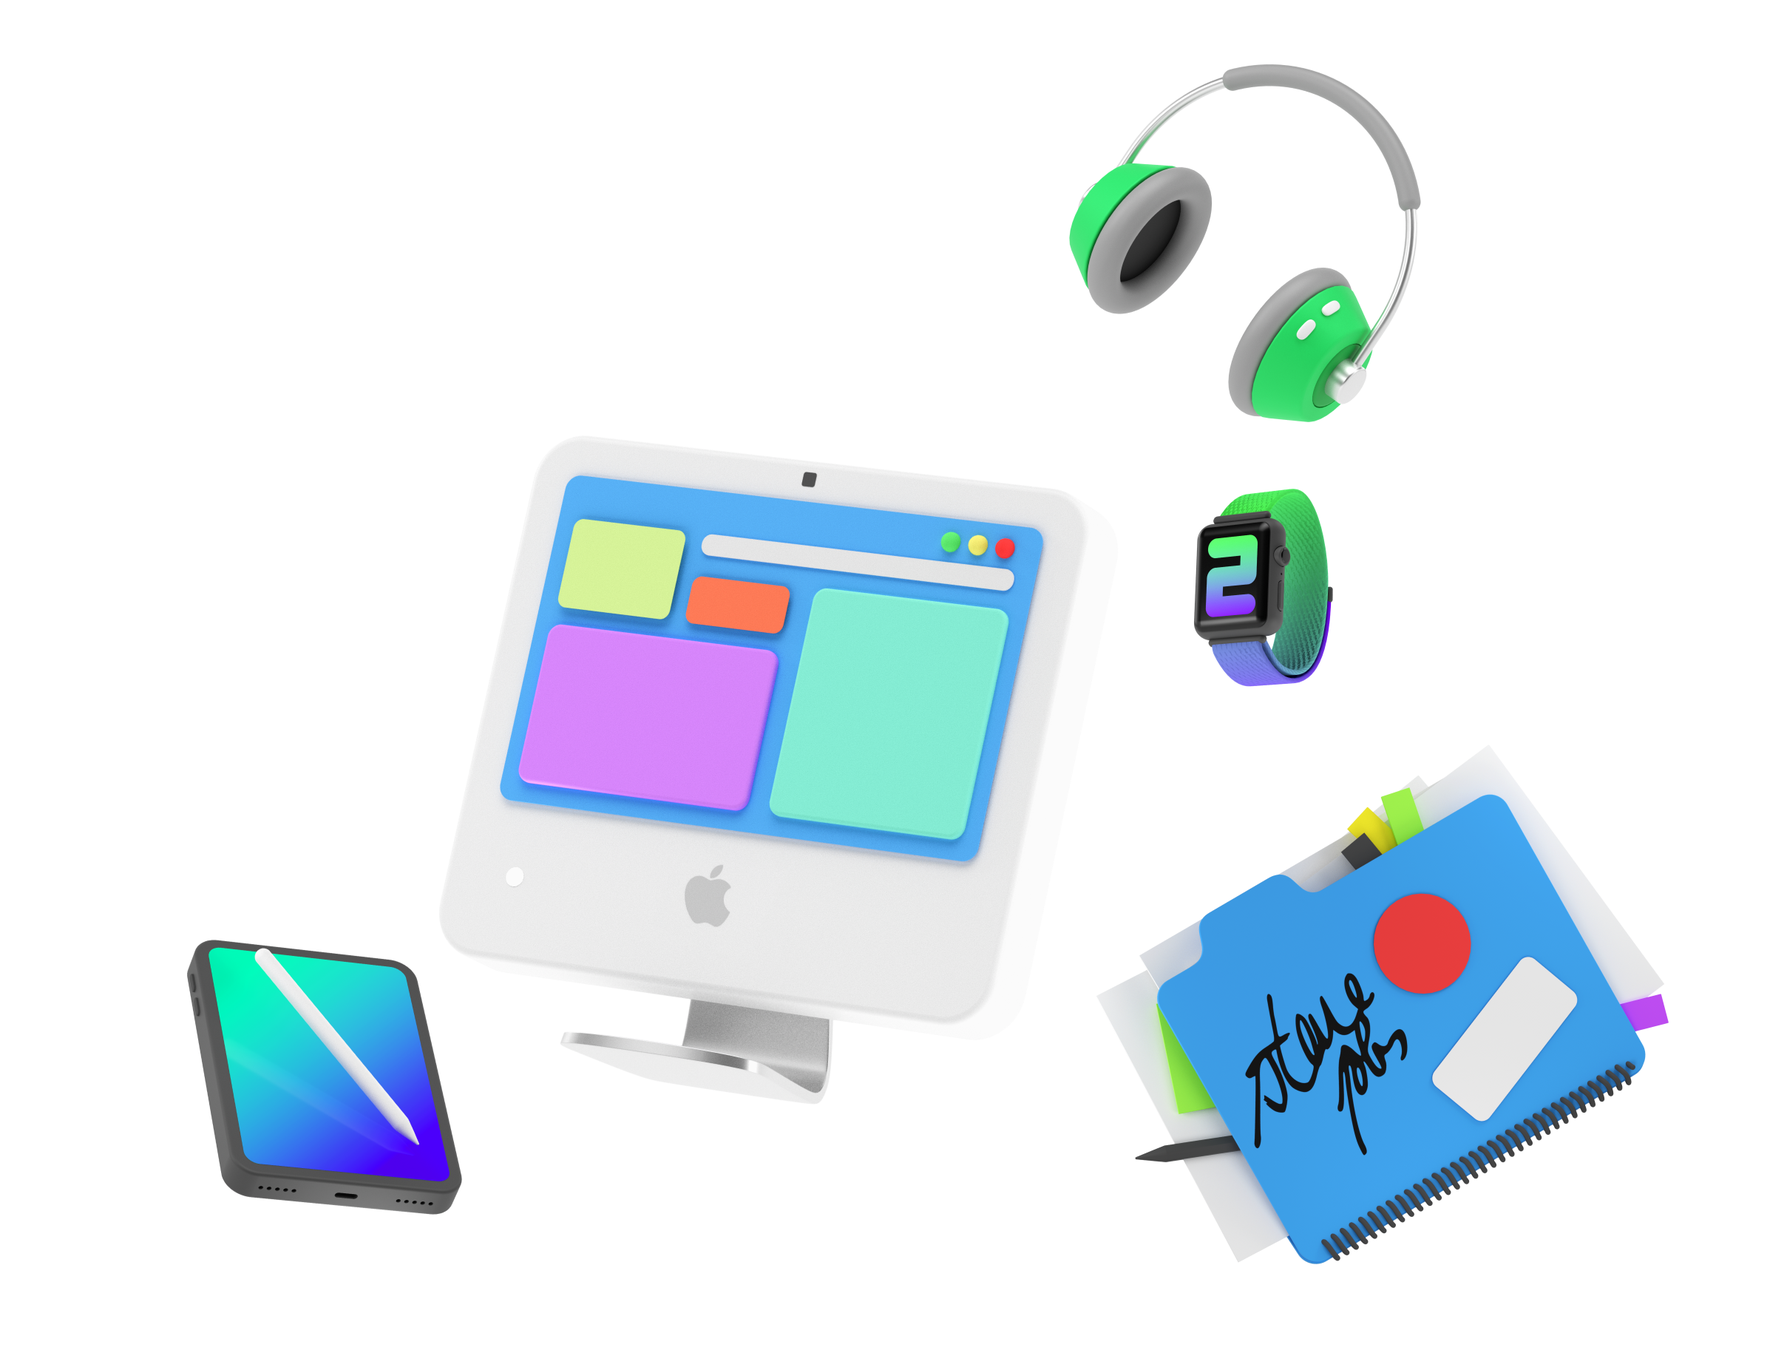
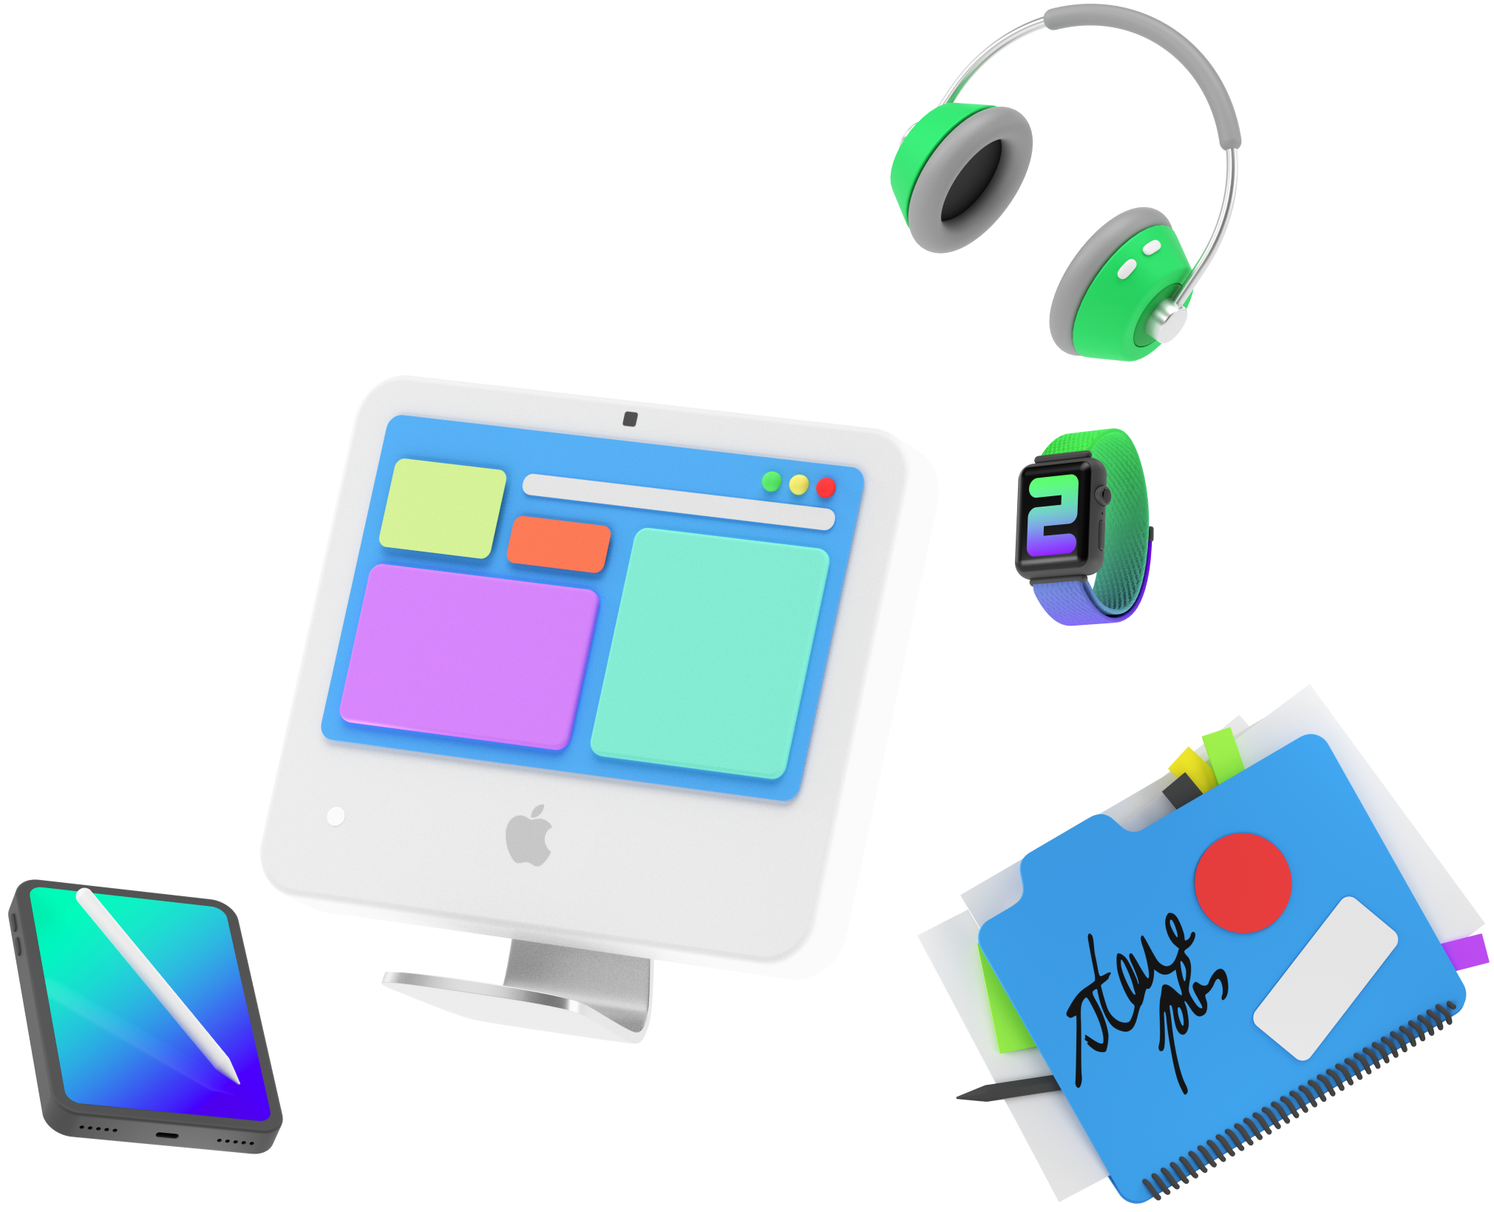
mini fix main screen

diff --git a/src/pages/MainPage.tsx b/src/pages/MainPage.tsx
@@ -2,18 +2,22 @@ import React from "react";
 import Header from "../components/Header";
 import MainScreen from "../components/MainScreen";
 import AboutCard from "../components/AboutCard";
+import InfoCard from "../components/InfoCard";
+import cardImg from "../media/card-image.png"
+import bgAbout from "../media/mainPage_aboutItems.png"
 
 export default function MainPage() {
     return (
         <div className="h-full relative">
             <Header />
             <MainScreen />
-            <section className="w-full max-w-[1220px] px-[20px] mt-[50px]">
+            <section className="w-full mx-auto max-w-[1220px] px-[20px] mt-[50px]">
                 <span className="block font-semibold italic text-[16px] mb-[12px] text-[#00BA61]">Наши ценности</span>
                 <h2 className="font-black text-[#2D2D2D] text-[28px] mb-[25px] l:text-[48px]">
                     О лингвистическом <br/> пространстве INSPIRA<span className="text-[#00BA61]">"</span>
                 </h2>
-                <div className="flex gap-[10px] overflow-x-scroll mx:justify-between mx:overflow-x-hidden">
+                <div className="relative flex gap-[10px] max-h-[620px] overflow-y-hidden overflow-x-scroll mx:justify-between mx:overflow-x-hidden">
+                    <img src={bgAbout} alt="" className="hidden lx:block absolute object-cover w-full scale-75 top-[-200px]"/>
                     <div className="flex gap-[10px] mx:flex-col">
                         <AboutCard
                             title="Никаких секретов"
@@ -22,7 +26,7 @@ export default function MainPage() {
                         />
                         <AboutCard
                             title="Индивидуальный подход - КЛЮЧ ко всему!"
-                            desc="Все мы очень разные и одни и те же методы не работают универсально. Именно поэтому мы предлагаем тебе курсы разработанные согласно твоим целям и способностям,для оптимизации процесса. Как мы это делаем? Сначала мы проводим тщательное тестирование, которое раскроет все твои сильные стороны и подсветит слабые И только так ты добьешься своих целей!"
+                            desc="Все мы очень разные и одни и те же методы не работают универсально. Именно поэтому мы предлагаем тебе курсы разработанные согласно твоим целям и способностям, для оптимизации процесса. Как мы это делаем? Сначала мы проводим тщательное тестирование, которое раскроет все твои сильные стороны и подсветит слабые И только так ты добьешься своих целей!"
                             bgChar="2"
                         />
                         <AboutCard
@@ -51,15 +55,16 @@ export default function MainPage() {
                     </div>
                 </div>
             </section>
-
-            {/* <div className="flex flex-col items-center sm:grid sm:grid-flow-row-dense sm:grid-cols-2 max-w-[780px] gap-[15px] l:gap-[15px]">
-                <InfoCard img={cardImg} title="1. Попробуйте бесплатно!" desc="Запишитесь на пробное занятие, чтобы узнать о курсах,Запишитесь на пробное занятие, чтобы узнать о курсах, о нас и познакомиться с нашим репетитором!Запишитесь на пробное занятие, чтобы узнать о курсах, о нас и познакомиться с нашим репетитором!Запишитесь на пробное занятие, чтобы узнать о курсах, о нас и познакомиться с нашим репетитором!Запишитесь на пробное занятие, чтобы узнать о курсах, о нас и познакомиться с нашим репетитором! о нас и познакомиться с нашим репетитором!" withButton={true} buttonText="Выбрать репетитора" isAboutCard={false} />
-                <InfoCard img={cardImg} title="1. Попробуйте бесплатно!" desc="Запишитесь на пробное занятие, чтобы узнать о курсах, о нас и познакомиться с нашим репетитором!" withButton={true} buttonText="Выбрать репетитора" isAboutCard={false} />
-                <InfoCard img={cardImg} title="1. Попробуйте бесплатно!" desc="Запишитесь на пробное занятие, чтобы узнать о курсах, о нас и познакомиться с нашим репетитором!" withButton={true} buttonText="Выбрать репетитора" isAboutCard={false} />
-                <InfoCard img={cardImg} title="1. Попробуйте бесплатно!" desc="Запишитесь на пробное занятие, чтобы узнать о курсах, о нас и познакомиться с нашим репетитором!" withButton={true} buttonText="Выбрать репетитора" isAboutCard={false} />
-                <InfoCard img={cardImg} title="1. Попробуйте бесплатно!" desc="Запишитесь на пробное занятие, чтобы узнать о курсах, о нас и познакомиться с нашим репетитором!" withButton={true} buttonText="Выбрать репетитора" isAboutCard={false} />
-                <InfoCard img={cardImg} title="1. Попробуйте бесплатно!" desc="Запишитесь на пробное занятие, чтобы узнать о курсах, о нас и познакомиться с нашим репетитором!" withButton={true} buttonText="Выбрать репетитора" isAboutCard={false} />
-            </div> */}
+            {/* <section className="flex jusw-full">
+              <div className="flex flex-col items-center sm:grid sm:grid-flow-row-dense sm:grid-cols-2 max-w-[780px] gap-[15px] l:gap-[15px]">
+                  <InfoCard img={cardImg} title="1. Попробуйте бесплатно!" desc="Запишитесь на пробное занятие, чтобы узнать о курсах,Запишитесь на пробное занятие, чтобы узнать о курсах, о нас и познакомиться с нашим репетитором!Запишитесь на пробное занятие, чтобы узнать о курсах, о нас и познакомиться с нашим репетитором!Запишитесь на пробное занятие, чтобы узнать о курсах, о нас и познакомиться с нашим репетитором!Запишитесь на пробное занятие, чтобы узнать о курсах, о нас и познакомиться с нашим репетитором! о нас и познакомиться с нашим репетитором!" withButton={true} buttonText="Выбрать репетитора" isAboutCard={false} />
+                  <InfoCard img={cardImg} title="1. Попробуйте бесплатно!" desc="Запишитесь на пробное занятие, чтобы узнать о курсах, о нас и познакомиться с нашим репетитором!" withButton={true} buttonText="Выбрать репетитора" isAboutCard={false} />
+                  <InfoCard img={cardImg} title="1. Попробуйте бесплатно!" desc="Запишитесь на пробное занятие, чтобы узнать о курсах, о нас и познакомиться с нашим репетитором!" withButton={true} buttonText="Выбрать репетитора" isAboutCard={false} />
+                  <InfoCard img={cardImg} title="1. Попробуйте бесплатно!" desc="Запишитесь на пробное занятие, чтобы узнать о курсах, о нас и познакомиться с нашим репетитором!" withButton={true} buttonText="Выбрать репетитора" isAboutCard={false} />
+                  <InfoCard img={cardImg} title="1. Попробуйте бесплатно!" desc="Запишитесь на пробное занятие, чтобы узнать о курсах, о нас и познакомиться с нашим репетитором!" withButton={true} buttonText="Выбрать репетитора" isAboutCard={false} />
+                  <InfoCard img={cardImg} title="1. Попробуйте бесплатно!" desc="Запишитесь на пробное занятие, чтобы узнать о курсах, о нас и познакомиться с нашим репетитором!" withButton={true} buttonText="Выбрать репетитора" isAboutCard={false} />
+              </div>
+            </section> */}
         </div>
     );
 }

diff --git a/src/components/MainScreen.tsx b/src/components/MainScreen.tsx
@@ -6,9 +6,41 @@ import bgItemsPc from "../media/mainPage_headerItems-pc.png";
 
 export default function MainScreen() {
     return (
-        <div className="relative w-full h-full pt-[64px] max-h-[594px] bg-[#F3F4F5] l:max-h-[775px]">
-            <img src={bgItemsPc} alt="" className="hidden l:block absolute z-[20] max-w-[1200px] top-[0] left-[25%] xl:left-[35%] uw:left-[45%]" />
-            <section className="main-screen bevealed-bottom relative overflow-hidden w-full h-full">
+        // <section className="main-screen bevealed-bottom relative overflow-hidden w-full h-full pt-[64px] max-h-[594px] bg-[#F3F4F5] l:max-h-[775px]">
+        //     <img src={mainBg} alt="" className="absolute w-full z-[1] xm:h-full" />
+        //     <div className="max-w-[1200px] h-full max-h-[455px] w-full mx-auto z-[10]">
+        //         <img src={bgItemsPc} alt="" className="hidden l:block absolute z-[20] max-w-[1200px] top-[0] right-0" />
+        //         {/* <img src={bgItemsPc} alt="" className="hidden l:block absolute z-[20] max-w-[1200px] top-[0] left-[25%] xl:left-[35%] uw:left-[45%]" /> */}
+        //         <div className="flex flex-col relative h-full justify-between mt-[25px] px-[20px] l:mt-[66px]">
+        //             <div>
+        //                 <img src={bgItemsMobile} alt="" className="absolute object-cover top-[20px] left-[-50px] min-w-[500px] max-w-[600px] w-full z-[2] l:hidden" />
+        //                 <h1 className="font-black text-[34px] l:text-[64px] text-[#2D2D2D]">
+        //                     Изучайте язык так,
+        //                     <br /> как удобно Вам!
+        //                 </h1>
+        //                 <p className="mt-[15px] font-medium text-[16px] l:text-[20px] leading-[1.4] text-[#787878]">
+        //                     Индивидуальный план под Ваши нужды,
+        //                     <br /> профи в области лингвистики и педагогики,
+        //                     <br /> разные форматы - все это в INSPIRA”
+        //                 </p>
+        //             </div>
+        //             <div className="flex flex-col gap-[10px] l:max-w-[335px]">
+        //                 <p className="text-center font-medium italic text-[12px] text-[#787878] l:text-[14px] l:text-left">*Нажимайте на кнопочку, ведь иностранный язык сам себя не выучит! ツ</p>
+        //                 <div className="bg-[#00BA61] p-[10px] h-fit rounded-[12px] font-bold text-white text-[18px] text-center py-[20px] px-[20px]">Получить скидку 25%</div>
+        //             </div>
+        //             <div className="hidden l:flex items-center text-[#787878] gap-[15px] text-[14px] font-medium italic">
+        //                 <img src={tgIcon} alt="" />
+        //                 <span>
+        //                     А ещё, пописывайтесь <br /> на наш телеграм-канал!
+        //                 </span>
+        //             </div>
+        //         </div>
+        //     </div>
+        // </section>
+        <div className="relative w-full overflow-y-hidden overflow-x-hidden pt-[64px] bg-[#F3F4F5] h-[653px] l:h-[844px]">
+            <img src={bgItemsPc} alt="" className="hidden l:block absolute z-[20] max-w-[1200px] top-[-50px] right-[-110px] scale-75 xl:right-[-140px] xl:scale-[85%]" />
+            {/* <img src={bgItemsPc} alt="" className="hidden l:block absolute z-[20] max-w-[1200px] top-[0] left-[25%] xl:left-[35%] uw:left-[45%]" /> */}
+            <section className="main-screen bevealed-bottom relative overflow-hidden w-full  h-[594px] l:h-[780px]">
                 <img src={mainBg} alt="" className="absolute w-full z-[1] xm:h-full" />
                 <div className="max-w-[1200px] h-full max-h-[455px] w-full mx-auto z-[10]">
                     <div className="flex flex-col relative h-full justify-between mt-[25px] px-[20px] l:mt-[66px]">

diff --git a/src/index.css b/src/index.css
@@ -4,6 +4,10 @@
 @tailwind utilities;
 
 
+
+
+
+
 *,
 *::before,
 *::after {
@@ -102,9 +106,13 @@ label {
 legend {
 	display: block;
 }
+
 html{
     height: 100%;
+    max-width: 1920px;
+    margin: 0 auto;
 }
+
 #root{
     height: 100%;
 }
@@ -114,11 +122,12 @@ body{
   background-color: white;
 }
 
+
 .bevealed-bottom::after {
     display: block; 
     content: ''; 
     width: 100%; 
-    height: 30px; 
+    height: 80px; 
     background: linear-gradient(to top right, rgb(255, 255, 255) 50%, rgba(255,0,0,0) 52%);
     position: absolute; 
     bottom: 0; 
@@ -127,3 +136,33 @@ body{
     z-index: 15;
 }
 
+
+@media screen and (max-width:768px) {
+    .bevealed-bottom::after {
+        display: block; 
+        content: ''; 
+        width: 100%; 
+        height: 30px; 
+        background: linear-gradient(to top right, rgb(255, 255, 255) 50%, rgba(255,0,0,0) 52%);
+        position: absolute; 
+        bottom: 0; 
+        left: 0; 
+        transform: translateY(-15%); 
+        z-index: 15;
+    }
+}
+
+@media screen and (max-width:1440px) {
+    .bevealed-bottom::after {
+        display: block; 
+        content: ''; 
+        width: 100%; 
+        height: 30px; 
+        background: linear-gradient(to top right, rgb(255, 255, 255) 50%, rgba(255,0,0,0) 52%);
+        position: absolute; 
+        bottom: 0; 
+        left: 0; 
+        transform: translateY(-0%); 
+        z-index: 15;
+    }
+}

diff --git a/src/components/AboutCard.tsx b/src/components/AboutCard.tsx
@@ -3,10 +3,10 @@ import { IAboutCard } from "../api/models";
 
 export default function AboutCard({title, desc,bgChar}:IAboutCard) {
     return (
-        <div className="relative overflow-hidden min-w-[285px] max-w-[335px] h-fit p-[20px] bg-[#F3F4F5] rounded-[12px]">
+        <div className="relative overflow-hidden min-w-[285px] max-w-[335px] h-fit p-[20px] bg-[#F3F4F5] rounded-[12px] l:max-w-[380px]">
             <h3 className="font-black text-[20px] text-[#2D2D2D] mb-[8px]">Никаких секретов</h3>
             <p className="font-medium text-[14px] text-[#787878]">
-                Мы ничего не скрываем! Все самое важное о нас можно найти в наших социальных сетях и в блоге нашего руководителя. Не нашли ответы на свои вопросы? Тогда обращайся к нашим менеджерам и они развеют твои сомнения!
+                {desc}
             </p>
             <span className="absolute block right-[-50px] z-[-1] top-[-80px] font-black text-[300px] text-[#E7F1EE]">{bgChar}</span>
         </div>

diff --git a/src/components/Header.tsx b/src/components/Header.tsx
@@ -5,7 +5,7 @@ import { Link } from "react-router-dom";
 
 export default function Header() {
     return (
-        <header className="fixed w-full shadow-header z-50 bg-[#F3F4F5]">
+        <header className="fixed w-full max-w-[1920px] shadow-header z-50 bg-[#F3F4F5]">
             <div className="max-w-[1200px] w-full mx-auto px-[20px] py-[10px] flex justify-between items-center">
                 <div className="flex gap-[8px]">
                     <img src={menu} alt="" className="max-w-[24px] w-full l:hidden" />

diff --git a/tailwind.config.js b/tailwind.config.js
@@ -16,6 +16,9 @@ module.exports = {
     },
 
     extend: {
+      scale: {
+        '85': '1.85',
+      },
       screens: {
         s:'320px',
         ss:'370px',
